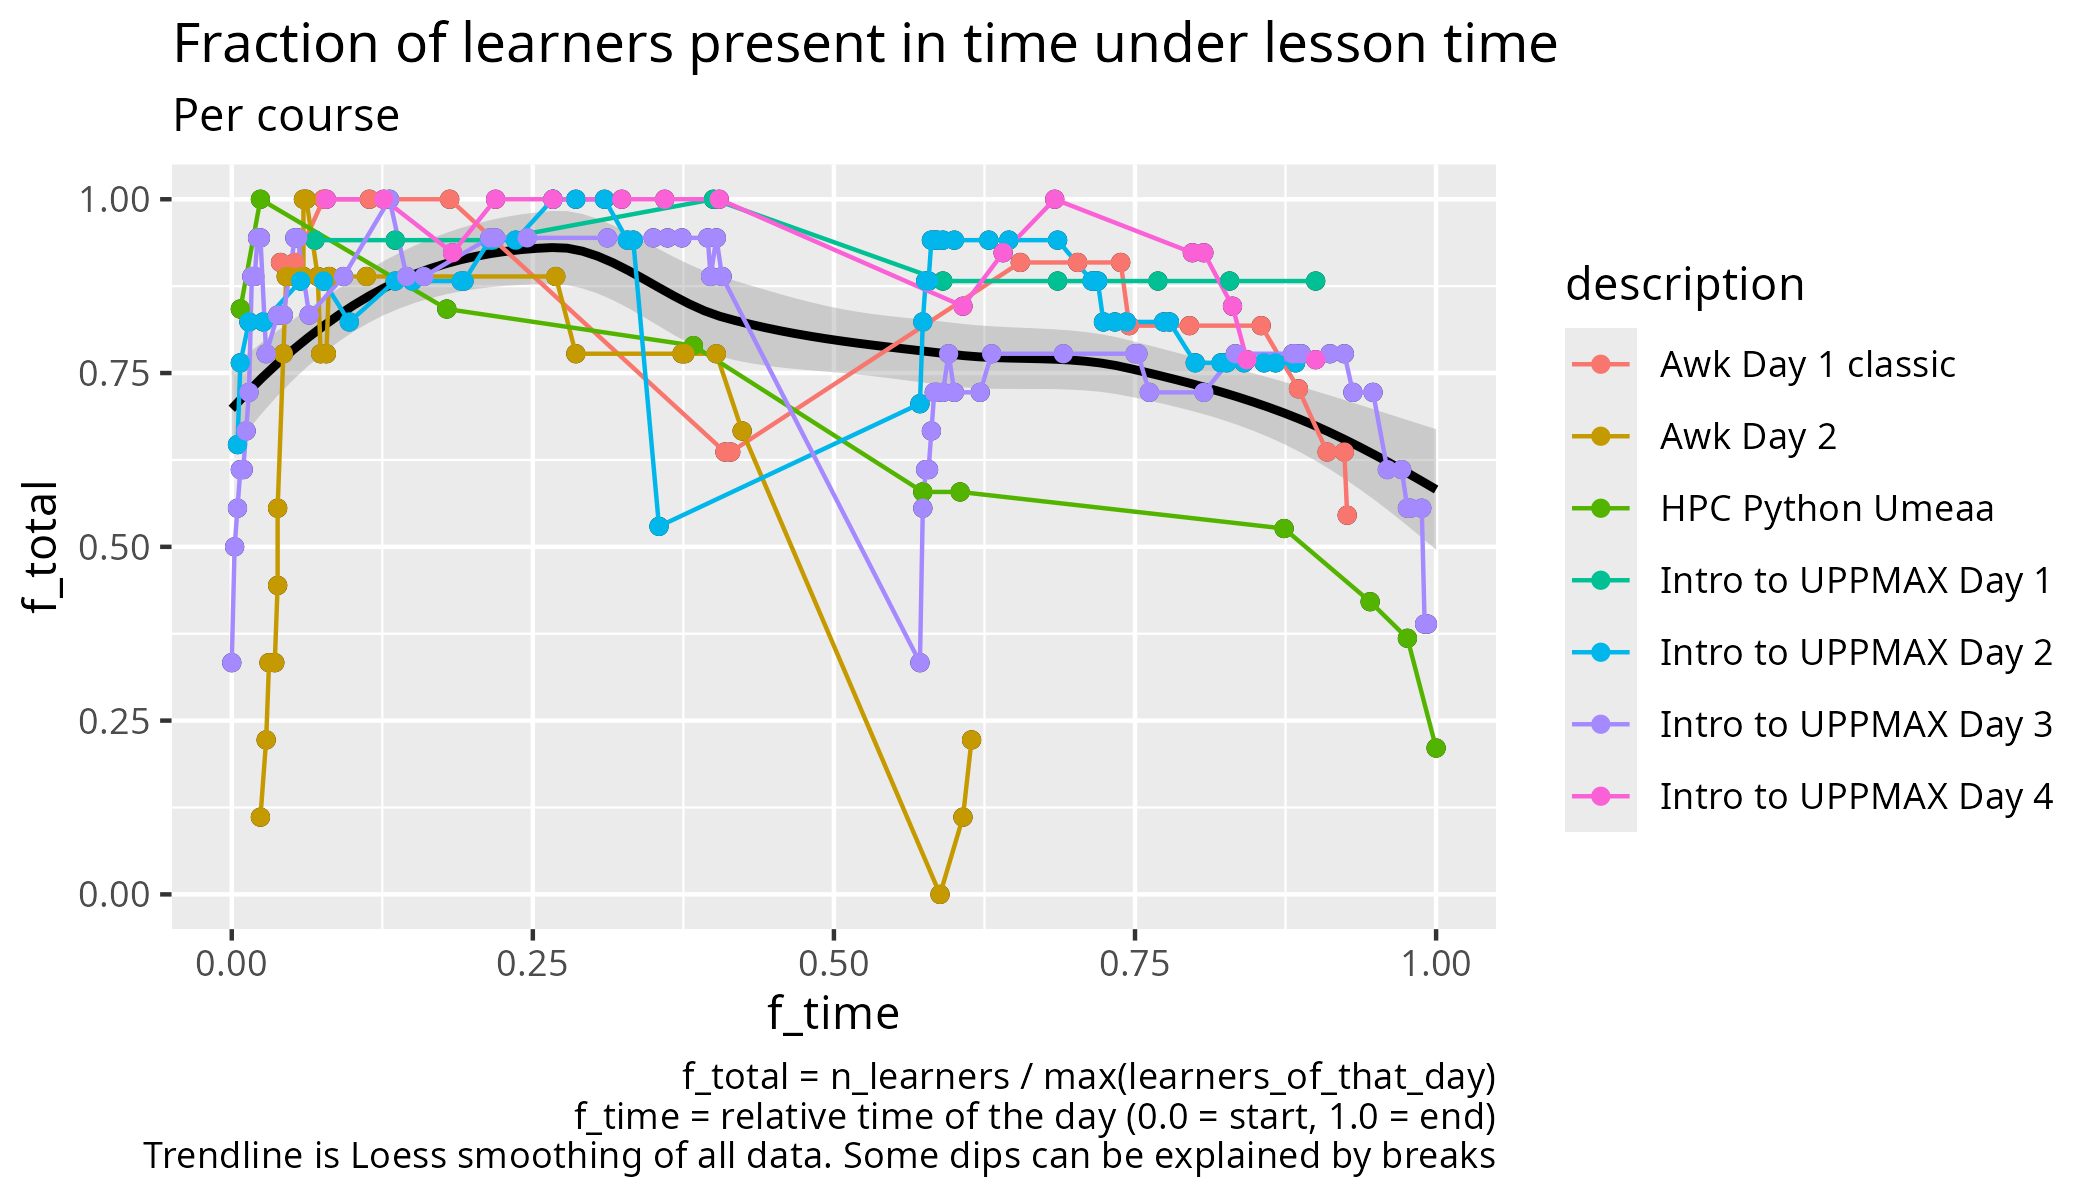
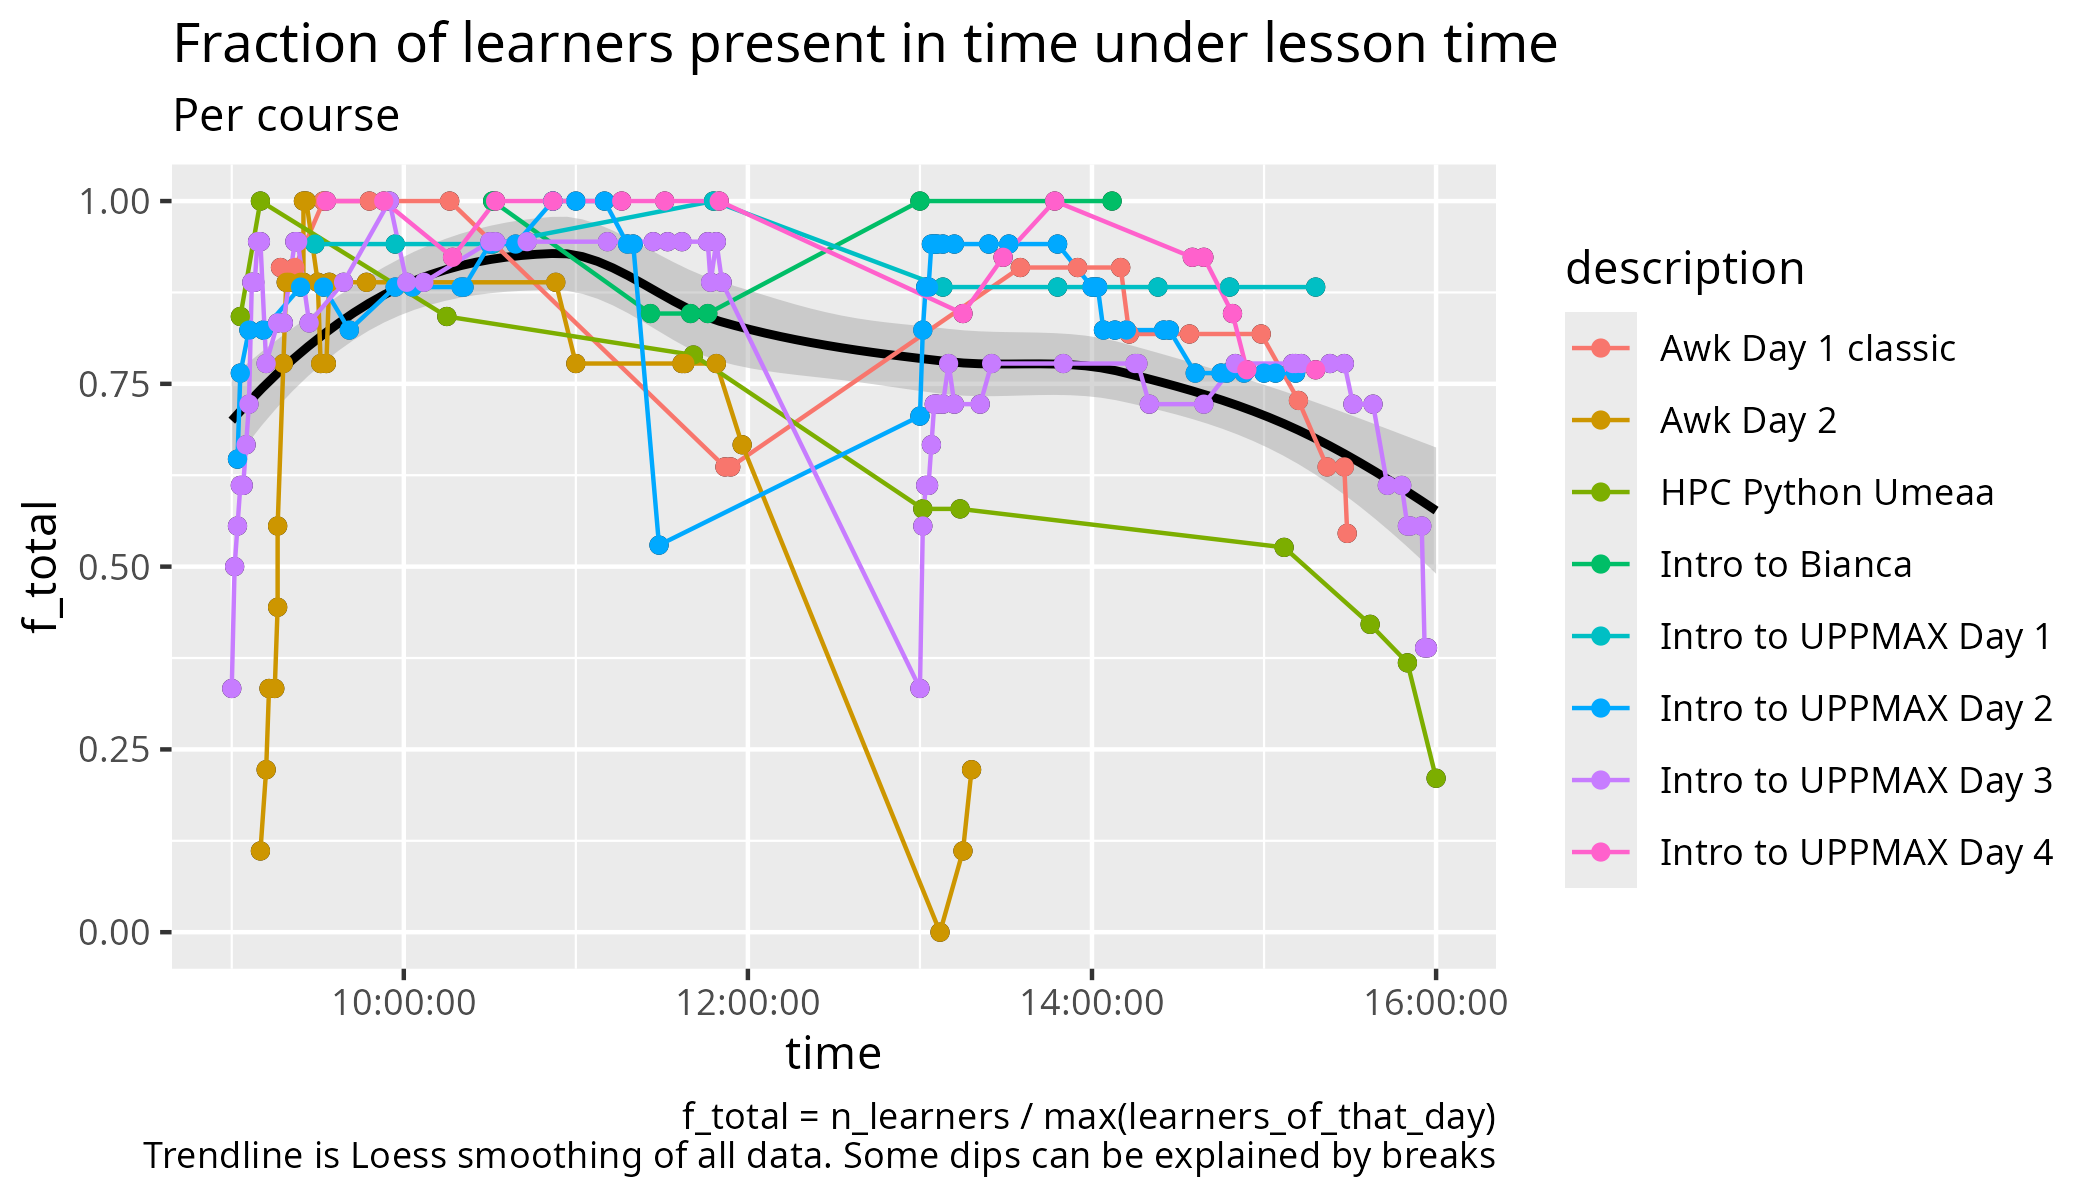
Split per session, thanks @PavlinMitev for the suggestion

diff --git a/experiments/counts/README.md b/experiments/counts/README.md
@@ -2,6 +2,18 @@
 
 Goal of this experiment is to compare lectures.
 
-![Fraction of learners per fraction of the time per course](f_learners_per_f_time_per_course.png)
+## Do trendline per day
 
-![Fraction of learners per fraction of the time](f_learners_per_f_time_per_f_on.png)
+![Learners per time per course](f_learners_per_f_time_per_course.png)
+
+![Learners per time per course per fraction of camara on](f_learners_per_f_time_per_f_on.png)
+
+![Learners per time per course per most having camara on](f_learners_per_f_time_per_most_on.png)
+
+## Do trendline per session
+
+![Learners per time per course per sessions](f_learners_per_f_time_per_course_per_session.png)
+
+![Learners per time per course per sessions per fraction of camara on](f_learners_per_f_time_per_f_on_per_session.png)
+
+![Learners per time per course per sessions per most having camara on](f_learners_per_f_time_per_most_on_per_session.png)
